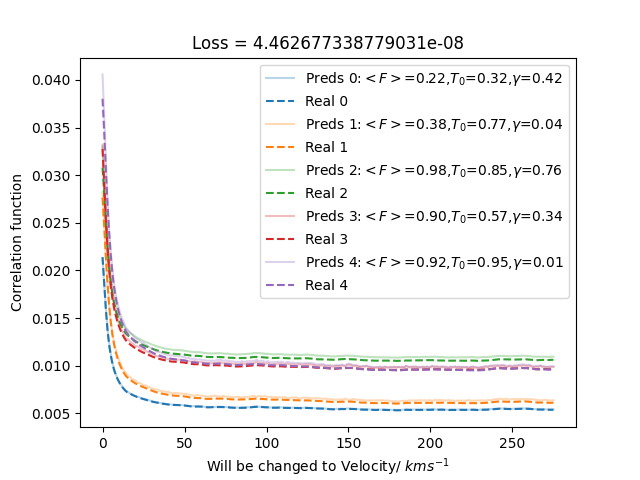
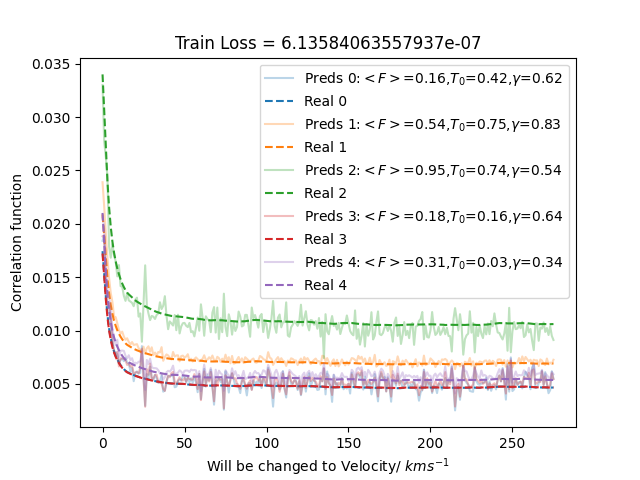
add relative loss function

diff --git a/igm_emulator/emulator/haiku_nn.py b/igm_emulator/emulator/haiku_nn.py
@@ -23,7 +23,7 @@ class haiku_nn:
             layer_size = (206,206,206,276),     #hidden layers and final layer(size of 276 is the size of the output)
             rng = jax.random.PRNGKey(42),       #for generating initialized weights and biases
             epochs = 1000,                      #epoch time for training
-            learning_rate = 0.001,              #rate of changing weight parameters when learning
+            learning_rate = 0.0001,             #rate of changing weight parameters when learning
             patience_values = 100,              #number of increasing loss gradient, prevent from overlearning
             X_train: jnp.ndarray = [],          #input tensor of shape [sampling_size, input_dimension(=3)]
             Y_train: jnp.ndarray = []           #output tensor of shape [sampling_size, output_dimension(=276)]
@@ -47,11 +47,14 @@ class haiku_nn:
         # -----------------------------------------------------------------------
 
 
-# -*- Define Loss function to be updated on -*-
+# -*- Define Loss functions to be updated on -*-
     def MeanSquaredErrorLoss(self, params, X, Y):
         compute_loss = jnp.mean((self.model.apply(params, None, X) - Y) ** 2)
         return compute_loss
 
+    def RelativeError(self, params, X, Y):
+        delta = jnp.mean(jnp.abs(self.model.apply(params, None, X) - Y)/Y)
+        return delta
 
 # -*- Learning process by minimizing the loss function -*-
     def train(self):
